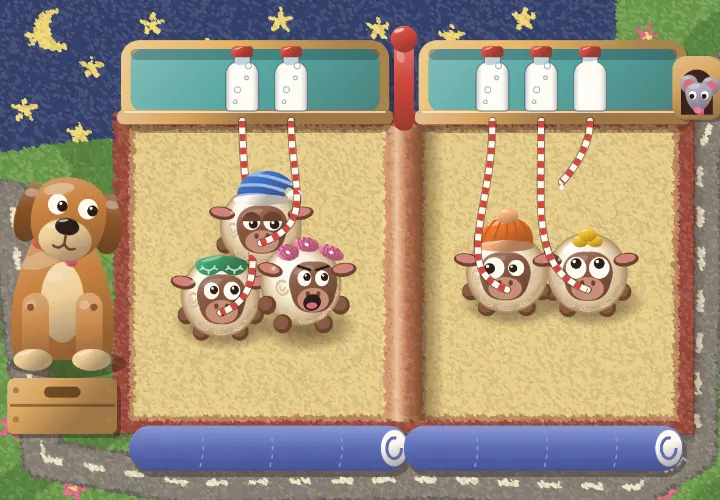
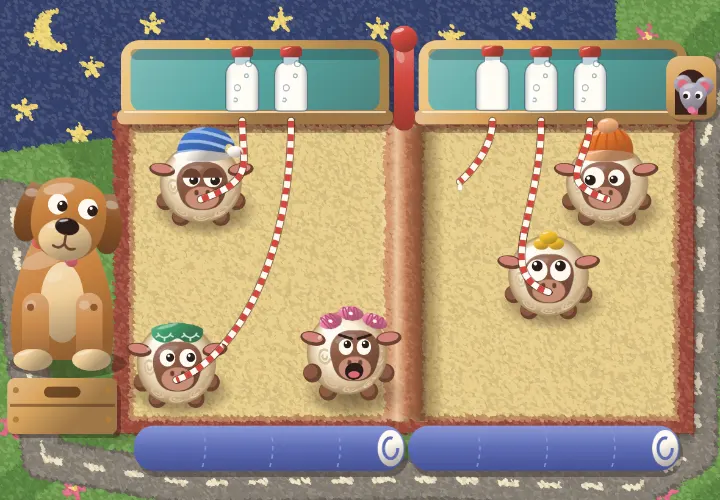
Five in the Bed: second playtest and sheet check fixes, cover retaken
Claude-Session: https://claude.ai/code/session_01KFxejekss9RwVXqiydsuut

diff --git a/games/five-in-the-bed/view.ts b/games/five-in-the-bed/view.ts
@@ -42,6 +42,8 @@ function dangle(b: { x: number; y: number }, towards: number, time: number, i: n
   return { x: b.x + Math.sin(time * 2 + i) * 8 + Math.sign(towards) * 46, y: b.y + 104 }
 }
 
+const CRATED = [[3, -25, -14], [4, 25, -14], [0, -50, 16], [1, 0, 16], [2, 50, 16]] as const
+
 export class View {
   readonly stamps = new Stamps()
   private rug: { canvas: CanvasImageSource; x: number; y: number; w: number; h: number } | null = null
@@ -222,7 +224,10 @@ export class View {
     // It leans toward whoever could have it.
     const want = b.owner ?? askers(g).find((i) => sideOf(g.bed.sheep[i].x) !== b.side)
     const to = want === undefined ? 0 : g.bed.sheep[want].x - foot.x
-    return dangle({ x: foot.x, y: SHELF.y + 12 }, Math.abs(to) > 60 ? to : 0, this.time, s.bottle)
+    const end = dangle({ x: foot.x, y: SHELF.y + 12 }, Math.abs(to) > 60 ? to : 0, this.time, s.bottle)
+    // It stays over its own half, clear of a quilt over the other.
+    const h = HALF[b.side]
+    return { x: Math.max(h.left + 44, Math.min(h.right - 44, end.x)), y: end.y }
   }
 
   private lookAt(g: Game, i: number, finger: Point | null, asking: number[], act: ReturnType<typeof actNow>): Point {
@@ -457,7 +462,7 @@ export class View {
       const to = { x: from.x + (end.x - from.x) * k, y: from.y + (end.y - from.y) * k }
       const own = milk[s.bottle].owner
       // It comes down straight and in to the mouth from the side, past the eyes.
-      const side = s.who !== null && Math.abs(end.x - HALF[milk[s.bottle].side].mid) > 40 ? Math.sign(end.x - HALF[milk[s.bottle].side].mid) : from.x >= end.x ? 1 : -1, reach = s.who === null || hidden(g, s.who) ? 0 : 92 * k
+      const side = from.x >= end.x ? 1 : -1, reach = s.who === null || hidden(g, s.who) ? 0 : 92 * k
       const path = () => { ctx.beginPath(); ctx.moveTo(from.x, from.y); ctx.bezierCurveTo(from.x, from.y + (to.y - from.y) * 0.55, to.x + side * reach, to.y - reach * 0.35, to.x, to.y) }
       ctx.save()
       if (over && mine) { ctx.beginPath(); ctx.arc(mine.x, mine.y - 10, R + 12, 0, Math.PI * 2); ctx.clip() }
@@ -481,7 +486,7 @@ export class View {
       const k = this.cover[side], x = HALF[side].left + 6
       const nudge = ring(this.since(`roll${side}`)) * 8
       // What is left of the roll when the quilt is up is thin.
-      const roll = () => { const sy = 1 - 0.6 * k; st.stampAt(ctx, ROLL, x - 2, QUILT.roll + nudge + (1 - sy) * QUILT.rollH, 0, 1, sy) }
+      const roll = () => { const sy = 1 - 0.6 * k; st.stampAt(ctx, ROLL, x + 5, QUILT.roll + nudge + (1 - sy) * QUILT.rollH, 0, 0.97, sy) }
       if (k < 0.02) { roll(); continue }
       const top = hemAt(k)
       ctx.save()
@@ -495,7 +500,7 @@ export class View {
         const speed = Math.hypot(s.vx, s.vy), p = this.poseOf(g, i)
         const moving = s.leap ? 1 : Math.min(1, speed / 140), poked = v.poked < 0.9 ? (1 - v.poked / 0.9) * (0.7 + 0.3 * Math.sin(v.poked * 30)) : 0
         const acting = actNow(g)?.cast.includes(i) ? Math.min(1, p.lift / 40 + Math.abs(p.spin % 6.28) * 0.12 + Math.abs(p.wide - 1) * 3 + 0.25) : 0
-        const wants = askers(g).includes(i) ? Math.min(1, 0.25 + p.lift / 40) : 0
+        const wants = askers(g).includes(i) ? Math.min(1, 0.55 + p.lift / 60) : 0
         const a = Math.max(moving, poked, acting, wants, g.bed.held?.who === i ? 1 : 0)
         if (a < 0.03) continue
         ctx.globalAlpha = Math.min(1, a)
@@ -537,7 +542,8 @@ export class View {
       this.head(ctx, DOG.x + this.dogTurn * 10 + nose, DOG.y - 62 + Math.sin(this.time * 1.6) * 2, this.dogTurn * 0.16, 1, g)
     }
     const full = milkOut(g) === null && this.home > 0.9
-    if (full) for (let i = 0; i < 3; i++) bottle(ctx, st, CRATE.x - 50 + i * 50, CRATE.y + 16 + ring(this.since('crate') - i * 0.06, 24, 6) * 8 - Math.max(0, Math.sin(this.time * 2.2 - i * 0.7)) * 12, 1, null, 0, 0, this.time)
+    // Five, as many as come out of it: two behind three.
+    if (full) for (const [i, x, y] of CRATED) bottle(ctx, st, CRATE.x + x, CRATE.y + y + ring(this.since('crate') - i * 0.06, 24, 6) * 8 - Math.max(0, Math.sin(this.time * 2.2 - i * 0.7)) * 12, 1, null, 0, 0, this.time)
     st.stampAt(ctx, CRATE_BOX, CRATE.x, CRATE.y, ring(this.since('crate'), 26, 7) * 0.05)
   }
 

diff --git a/games/five-in-the-bed/milk.ts b/games/five-in-the-bed/milk.ts
@@ -1,4 +1,5 @@
 import { FIVE, SIDES, sideOf, type Bed, type Side } from './bed'
+import { bottleAt } from './layout'
 import { below, type Rng } from './rng'
 
 // Milk: five bottles parted over two shelves, and the straws that join them to
@@ -24,7 +25,7 @@ export type Straw = { bottle: number; who: number | null }
 
 /**
  * Straws go down within a half, the colour's own first. One that has a sheep keeps it for as long as that sheep stays;
- * the rest go in order from the side of the bed, so that they never cross for nothing and one with nobody hangs by the ridge. One in the air has no straw.
+ * of the rest the highest sheep takes the nearest, so that they seldom cross and one with nobody hangs clear of it. One in the air has no straw.
  */
 export function straws(bed: Bed, milk: Milk, before: readonly Straw[] | null = null): Straw[] {
   const out: Straw[] = milk.map((_, bottle) => ({ bottle, who: null }))
@@ -33,14 +34,18 @@ export function straws(bed: Bed, milk: Milk, before: readonly Straw[] | null = n
     const here = bed.sheep.map((_, i) => i).filter((i) => !bed.sheep[i].leap && sideOf(bed.sheep[i].x) === side)
     milk.forEach((b, i) => { if (b.side === side && b.owner !== null && here.includes(b.owner)) out[i].who = b.owner })
     // One with a bottle of its own somewhere else waits for that.
-    let plain = here.filter((i) => !milk.some((b) => b.owner === i)).sort((a, b) => (bed.sheep[a].x - bed.sheep[b].x) * inward)
-    let free = milk.map((_, i) => i).filter((i) => milk[i].side === side && milk[i].owner === null).sort((a, b) => (milk[a].slot - milk[b].slot) * inward)
+    let plain = here.filter((i) => !milk.some((b) => b.owner === i)).sort((a, b) => bed.sheep[a].y - bed.sheep[b].y || (bed.sheep[a].x - bed.sheep[b].x) * inward)
+    let free = milk.map((_, i) => i).filter((i) => milk[i].side === side && milk[i].owner === null)
     for (const i of free) {
       const kept = before?.[i]?.who
       if (kept !== null && kept !== undefined && plain.includes(kept)) { out[i].who = kept; plain = plain.filter((x) => x !== kept) }
     }
     free = free.filter((i) => out[i].who === null)
-    free.forEach((bottle, i) => { if (i < plain.length) out[bottle].who = plain[i] })
+    for (const who of plain) {
+      const x = (i: number) => Math.abs(bottleAt(side, milk[i].slot, onShelf(milk, side)).x - bed.sheep[who].x)
+      const nearest = free.sort((a, b) => x(a) - x(b) || (milk[a].slot - milk[b].slot) * inward).shift()
+      if (nearest !== undefined) out[nearest].who = who
+    }
   }
   return out
 }
@@ -54,8 +59,8 @@ export function movesTo(bed: Bed, milk: Milk): number {
   const wrong = named.filter((b) => sideOf(bed.sheep[b.owner!].x) !== b.side).length
   if (!named.length) return Math.abs(bed.sheep.filter((s) => sideOf(s.x) === 'left').length - onShelf(milk, 'left'))
   const side = named[0].side
-  const extra = bed.sheep.filter((s, i) => sideOf(s.x) === side && !named.some((b) => b.owner === i)).length
-  return wrong + extra
+  const others = bed.sheep.filter((s, i) => sideOf(s.x) === side && !named.some((b) => b.owner === i)).length
+  return wrong + Math.abs(others - (onShelf(milk, side) - named.length))
 }
 
 /** The most sheep one deal asks over. */

diff --git a/games/five-in-the-bed/rules.test.ts b/games/five-in-the-bed/rules.test.ts
@@ -193,3 +193,16 @@ describe('the save', () => {
     expect(deserialize(serialize(saved({ position: 'whose-milk' })), 3, 1).position).toBe('whose-milk')
   })
 })
+
+describe('how many have to move', () => {
+  it('is the fewest over all partings that fit, for every deal at every position', () => {
+    const sidesOf = (m: number): Side[] => Array.from({ length: FIVE }, (_, i) => ((m >> i) & 1 ? 'left' : 'right'))
+    const apart = (a: number, b: number) => [0, 1, 2, 3, 4].filter((i) => ((a ^ b) >> i) & 1).length
+    for (const position of LADDER) for (let m = 0; m < 32; m++) for (let seed = 1; seed < 9; seed++) {
+      const { milk } = dealMilk(makeBed(sidesOf(m)), position, makeRng(seed))
+      const fewest = Math.min(...Array.from({ length: 32 }, (_, to) => to).filter((to) => fits(straws(makeBed(sidesOf(to)), milk))).map((to) => apart(m, to)))
+      expect(movesTo(makeBed(sidesOf(m)), milk)).toBe(fewest)
+      expect(fewest).toBeGreaterThan(0)
+    }
+  })
+})

diff --git a/games/five-in-the-bed/bed.ts b/games/five-in-the-bed/bed.ts
@@ -25,7 +25,7 @@ export const HAND = 34
 
 const MID: Record<Side, number> = { left: (BED.left + BED.crest) / 2, right: (BED.right + BED.crest) / 2 }
 /** Each has a place of its own, the same in both halves and clear of the rest, as the pips of a five lie. Nobody has to move for another. */
-const PLACE: readonly Point[] = [{ x: -100, y: 300 }, { x: 152, y: 596 }, { x: 4, y: 452 }, { x: -152, y: 596 }, { x: 100, y: 300 }]
+const PLACE: readonly Point[] = [{ x: -100, y: 300 }, { x: 140, y: 596 }, { x: 4, y: 452 }, { x: -140, y: 596 }, { x: 100, y: 300 }]
 export const placeOf = (who: number, side: Side): Point => ({ x: MID[side] + PLACE[who].x - (side === 'left' ? 8 : -8), y: PLACE[who].y })
 
 export type Sheep = {

diff --git a/games/five-in-the-bed/game.ts b/games/five-in-the-bed/game.ts
@@ -123,7 +123,9 @@ export function deal(g: Game): boolean {
   const d = dealMilk(bed, g.save.position, g.rng)
   const worn = d.milk.some((b) => b.owner !== null) && !g.save.shown.includes('worn')
   g.save = { ...beginCycle(g.save), milk: d.milk, misfits: 0, needed: movesTo(bed, d.milk) }
+  // A deal that asks for no quilt takes off the one that was left on, so that whoever asks is seen.
   if (d.quilt) pull(g, d.quilt, true)
+  else if (g.save.quilt) pull(g, g.save.quilt, false)
   g.last = keyOf(bed)
   g.straws = null
   g.scene = { kind: 'deal', t: 0, out: 0, worn }

diff --git a/games/five-in-the-bed/ART.md b/games/five-in-the-bed/ART.md
@@ -15,13 +15,13 @@ Five fat toy sheep lie in a bed with a ridge down its middle. A finger that land
 
 | | Tap | Shove or drag | A sheep rolls into it | Quilt over it | Milk is out |
 | --- | --- | --- | --- | --- | --- |
-| Sheep | squash, its own bleat, and over the ridge it tumbles | rolls with the finger, a rumble that rises with speed | a bop pitched by the knock, and a squeak from the one hit | a muffled bleat, and a bulge where it squirms | a straw goes to it as it lies, or its mouth opens |
-| Ridge | a twang, and it wobbles | a lower twang drawn along with the finger | the sheep hops the crest with a boing | a flump over the ridge's edge | the twang as ever; the straws hang clear of it |
-| Bare mattress | springs creak and the nearest sheep bounce | an unseen hand: sheep roll ahead of it, a brush of pile | the sheep rolls back to its place | a soft flump | a drop of milk plips if a straw has nobody |
+| Sheep | squash, its own bleat, and over the ridge it tumbles | rolls with the finger, a rumble that rises with speed | a bop pitched by the knock, and a squeak from the one hit | a muffled bleat, and a bulge where it squirms | a straw goes to it with a rising peep, or its mouth opens with four small peeps |
+| Ridge | a twang, and it wobbles | a lower twang drawn along with the finger | the sheep hops the crest with a boing | a flump over the ridge's edge | a sheep that hops it lets its straw go, and takes a spare one where it lands with a peep |
+| Bare mattress | springs creak and the nearest sheep bounce | an unseen hand: sheep roll ahead of it, a brush of pile | one that leaps lands with a thud and a puff; one that was shoved rolls back to its place | a soft flump | a drop of milk plips if a straw has nobody |
 | Quilt | the roll: up it comes with a whump. Anywhere on it: off it flies with a whoosh, after the nearest lump has squirmed under the finger | the hem follows the finger with a rustle; the middle shoves who is under it | goes in under the side with a swish, and the side of the quilt lifts | the other half's quilt slides back first, a double flump | straws go in under the hem with a pop |
-| Bottles and the dangling straw | a clink of that bottle's pitch and a wobble, a tick of the straw; whoever asks for it jumps and bleats | slides a little and springs back with a squeak of the shelf | rock on the shelf with a rattle when a sheep hits the headboard | a muffled clink | drain with a gurgle and burp empty |
-| Dog | ears up, a yip, and he deals the milk if it is owed | his head turns after the finger with a wooden creak | a hard knock on the bed's side makes him bark back | looks at it | his tongue hangs out |
-| Mouse | dives in her hole with a pop and looks out again | scampers after the finger and back, a patter | jumps when the headboard is hit, a tiny squeak | holds her breath, then a sneeze | her tongue is out toward the bottles |
+| Bottles and the dangling straw | a clink of that bottle's pitch and a wobble, or a tick of the straw; the one that asks jumps and bleats | slides a little and springs back with a squeak of the shelf | rock on the shelf with a rattle when a sheep hits the headboard | a muffled clink | drain with a gurgle and burp empty |
+| Dog | ears up, a yip, and he deals the milk if it is owed | his head turns after the finger with a wooden creak | a hard knock on the bed's side makes him bark back | his nose goes out and back at the whump | ears up at every clink as it comes out, and his tongue hangs out |
+| Mouse | dives in her hole with a pop and looks out again | scampers after the finger and back, a patter | jumps when the headboard is hit, a tiny squeak | holds her breath, then a sneeze | her tongue is out toward the bottles; touched, she takes it in with a pop and puts it out again |
 
 **Day 15:** a child can call any of sixteen acts on purpose, because each way of parting the five always puts on the same one: five solos, ten duets, and what happens when all five are on one side. They can do it with one half under the quilt. They can put the two who quarrel together and then give them milk.
 
@@ -44,7 +44,7 @@ The quilt is no quiz. Nobody asks what is under it, nothing waits for an answer,
 
 ## The error as a consequence
 
-A straw comes down from each bottle to a sheep in the half under its shelf, and follows who lies where at once: a sheep that comes over gets its straw as it lands. A parting that does not fit leaves a straw that dangles and drips on one side, next to the ridge, and on the other a sheep with an open mouth. One sheep at a time asks: it looks across at that straw, hops toward it and falls back, while the straw leans toward that sheep and its full bottle bobs. Any others without a straw only hold their mouths open. A tap on the bottle or on the dangling straw makes the one that asks jump and bleat. Nobody drinks. Under the quilt the one that asks hops as a lump. At `whose-milk` one bottle wears a sheep's own thing, its nightcap or its bobble hat, and its straw goes to nobody else: with the wrong sheep there it dangles and leans across the ridge toward its owner, who asks for it. Everything stays as it is, and each sheep over the ridge changes it.
+A straw comes down from each bottle to a sheep in the half under its shelf, and follows who lies where at once: a sheep that comes over gets its straw as it lands. A parting that does not fit leaves a straw that dangles and drips on one side, and on the other a sheep with an open mouth. One sheep at a time asks: it looks across at that straw, hops toward it and falls back, while the straw leans toward that sheep and its full bottle bobs. Any others without a straw hold their mouths open and hop only a little. A tap on any bottle or on the dangling straw makes the one that asks jump and bleat. Nobody drinks. Under the quilt the one that asks hops as a lump. At `whose-milk` one bottle wears a sheep's own thing, such as its nightcap or its curlers, and its straw goes to nobody else: with the wrong sheep there it dangles and leans across the ridge toward its owner, who asks for it. Everything stays as it is, and each sheep over the ridge changes it.
 
 ## The designed order, and what is stored
 
@@ -53,9 +53,9 @@ One new thing at a time:
 1. `next-door`: the bottles are one sheep away from how the sheep lie.
 2. `further`: the bottles part in any other way at most three sheep away, none on one shelf included.
 3. `whose-milk`: never with an empty shelf; one bottle wears the thing of a sheep that lies in the other half and has to come over, so it matters who lies there.
-4. `under-the-quilt`: as `further`, and the dog draws the quilt over one half as he deals. It comes off with a tap anywhere.
+4. `under-the-quilt`: as `further`, and the dog draws the quilt over one half as he deals. It comes off with a tap anywhere on it.
 
-A cycle runs from a deal to the drinking. Counted while it runs: the settled partings that did not fit. Well: at most one more than the sheep that had to move. Badly: six or more beyond that. Otherwise mixed. Nothing shows the count or the position. The harder option is the quilt: at every position the child may lay it over one half while the milk is out, which looks harder since that half is hidden, and may take it off again. A bottle wearing a hat is seen before anything is tried, and any child may push sheep about without dealing milk at all.
+A cycle runs from a deal to the drinking. Counted while it runs: the settled partings that did not fit. Well: at most one more than the sheep that had to move. Badly: six or more beyond that. Otherwise mixed. Nothing shows the count or the position. The harder option is the quilt: at every position the child may lay it over one half while the milk is out, which looks harder since that half is hidden, and may take it off again. A bottle wearing somebody's thing is seen before anything is tried, and any child may push sheep about without dealing milk at all.
 
 Saved: version; position and finished; the five sheep's places, at rest; which half the quilt is over, or none; the bottles of the current deal (each shelf's number, and which wears whose thing), or none; the misfits so far; the number that had to move; shown (which of the two showings have started); and the random stream's state. Sheep on the move are saved where they would come to rest; one under a finger goes back to where it came from first. A save in which the rest would fit the milk is saved as drunk, so nothing plays on load. The act that is playing, the dog in the bed and the bulges are views and are not saved.
 
@@ -77,11 +77,11 @@ The **dog** wants a place in the bed: he watches the half with the most room. Wh
 
 ## The scenes
 
-- **Deal.** Cause: a touch on the dog or his crate when no milk is out, sheep on the move or an act playing or not. Five bottles hop one by one to the two shelves with a clink each, a rest between the two groups; on `under-the-quilt` the quilt comes up. Four seconds. The bottles and the number that had to move are worked out from where each sheep would come to rest, and the bottles never fit that parting. Saved at its start: the sheep's places, bottles, misfits, the number that had to move, quilt, stream.
+- **Deal.** Cause: a touch on the dog or his crate when no milk is out, sheep on the move or an act playing or not. Five bottles hop one by one to the two shelves with a clink each, a rest between the two groups; on `under-the-quilt` the quilt comes up, and at the others one left on slides off. Four seconds. The bottles and the number that had to move are worked out from where each sheep would come to rest, and the bottles never fit that parting. Saved at its start: the sheep's places, bottles, misfits, the number that had to move, quilt, stream.
 - **Milk.** Cause: the settled parting fits. Milk runs up the straws, bottles drain, then a burp from each, one group after the other with a rest between; the smaller part's act plays, the empty bottles hop back into the crate, and all shut their eyes. Seven to ten seconds. Saved at its start: no bottles, finished, the position moved. Filled in from who lies where.
-- **Act.** Cause: with no milk out, a new parting settles. The smaller part's act, three to four seconds; the larger part watches and bleats once each at the end. Under the quilt it is only bulges and muffled sound, and whoever is uncovered in the middle of an act freezes with wide eyes. It saves nothing.
+- **Act.** Cause: with no milk out, a new parting settles. The smaller part's act, then the larger part, which has watched, bleats once each: about five seconds in all. With all five on one side there are no bleats, and the dog's getting in ends it. Under the quilt it is only bulges and muffled sound, and whoever is uncovered in the middle of an act freezes with wide eyes. It saves nothing.
 
-- **Showing.** Cause: the first opening of the game, and the first deal at `whose-milk`, once each. At the opening, with one sheep's open mouth already in sight, a sheep from the other half, the one with the dangling straw, stretches in its sleep, tumbles over the ridge into the half of the open mouth with a boing and tumbles back, so the spare straw never gets a sheep and nothing is solved. At `whose-milk`, as the end of the deal, the sheep whose thing the bottle wears jumps, and the two bob together with a clink. Saved when the showing itself starts: its mark in shown. Put away before that, it is still owed: the opening one until a child moves a sheep over, by which it is no longer needed, and the other until the next deal with such a bottle. Neither plays again once marked.
+- **Showing.** Cause: the first opening of the game, and the first deal at `whose-milk`, once each. At the opening, with one sheep's open mouth already in sight, a sheep from the other half, the one with the dangling straw, tumbles over the ridge into the half of the open mouth with a boing and tumbles back, so the spare straw never gets a sheep and nothing is solved. At `whose-milk`, as the end of the deal, the sheep whose thing the bottle wears jumps, and the two bob together with a clink. Saved when the showing itself starts: its mark in shown. Put away before that, it is still owed: the opening one until a child moves a sheep over, by which it is no longer needed, and the other until the next deal with such a bottle. Neither plays again once marked.
 
 Any touch ends a scene at once and is then an ordinary touch. After the milk the sheep and the quilt stay as they are. The shut eyes are short-lived: they open at the next touch and are open on load. The dog sits by his full crate, and nothing comes until the child touches him or it. On load no scene replays.
 
@@ -130,7 +130,7 @@ Every tuft is one short dab of one dyed colour, so each printed edge is fuzzy by
 
 Moulded and turned: one clean edge, a round shade, a small sharp light. The five are cream balls of one size with a brown face plate, pegs for feet and ears. Each is turned as a ball is turned (`sheep.ts`), so that one which rolls shows its curls, its back and its face again, and rights itself at rest; the light on it never turns. What tells them apart is on the head: a blue nightcap, pink curlers, a yellow dummy and tuft, a green mask, an orange bobble hat. A bottle that is somebody's wears the same thing on its top, over a spotted band of that colour.
 
-Bottles stand in two painted wooden shelves. Straws are barley-sugar red and white, or in a sheep's own colour. A straw lies behind every sheep but its own, the dangling one in front of all, and comes to the mouth from the side, past the eyes. The dog is jointed wood with a red collar, large, at the left, behind his crate. The quilt is flat blue felt with stars and a white hem: opaque, and it shows a lump only where somebody moves.
+Bottles stand in two painted wooden shelves. Straws are barley-sugar red and white, or in a sheep's own colour. A straw lies behind every sheep but its own, the dangling one in front of all, and comes to the mouth from the side of its bottle. The dog is jointed wood with a red collar, large, at the left, behind his crate. The quilt is flat blue felt with stars and a white hem: opaque, and it shows a lump only where somebody moves.
 
 ## Palette
 

diff --git a/games/five-in-the-bed/REFINEMENT.md b/games/five-in-the-bed/REFINEMENT.md
@@ -4,14 +4,14 @@
 ## Status
 
 - Stage: gates. Built, refined in the passes below, and in review in its pull request.
-- Sheet: check round 1 (a reader who did not write it) returned 16 findings, pasted word for word. Round 2 reads the changes made since.
+- Sheet: check round 1 (a reader who did not write it) returned 16 findings, pasted word for word. Round 2, the same reader, returned three, pasted. Round 3, a reader new to it, returned nine on the changed lines, pasted, and one fault in the count of moves, fixed and tested over every deal. Nothing has been read since for the paste itself.
 - Look in use: the first row set aside, tufted play rug. The second, backlit peg dots, was not tried.
 - Open: the owner has not seen the toy or the game; nobody has listened to the sounds; no physical iPad and no WebKit was measured.
 
 ### Template notes
 
 - `state.ts`: used as copied, wrapped by `save.ts`.
-- `scene.ts`: copied and not used. Scenes are steps of the rules in `game.ts`, since what they show depends on the physics.
+- `scene.ts`: removed, not used. Scenes are steps of the rules in `game.ts`, since what they show depends on the physics.
 - `config.ts`: `TAP_PRESSES` is 1, since a second tap takes the sheep back.
 - The Mount: the template's, with the gestures behind `Play` so that tests use the same path.
 - `symbols.ts` went, as the band starts below 6. Frozen files and the rest: used as copied.
@@ -29,6 +29,9 @@
 | 2 | misfit, drinking, acts | Straws lie across the faces of others and over eyes; the mask is gone when its sheep sleeps | straws behind all but their own and in from the side; the mask over the eyes | not measured | why to move anybody |
 | 3 | the loop, as a child of 4: what do I do, what happened, what now | Straws went up each time anything moved, so nothing seemed to follow from a tap; the one without milk only looked; with no milk out nothing called | straws follow at once and a sheep gets its straw as it lands; the one without hops toward the spare straw, which leans to it, and its bottle bobs; the crate's bottles rattle and the dog looks at them; a touch on the crate deals at any time | not measured | |
 | 4 | quilt, dog in the bed, worn bottles, a change of tier | Straws over the covered half are hidden; a change of tier repaints the rug and stops the game for two seconds | those straws hang over the quilt or go in at the hem; painted once for a size | 58 fps in software Chrome | |
+| 5 | a cold playtest as a child of 4, a code review | Sheep piled in a hollow and hid each other's mouths; several hopped at once, so nobody knew which to tap; a coloured teat said nothing; the quilt needed its hem; two touches of different kinds could leave a scene running | each sheep has its own place, the same in both halves; one asks at a time; a bottle wears the sheep's own hat; a tap anywhere takes the quilt off; the bottle and the dangling straw answer; eighteen review findings | not measured | |
+| 6 | misfit, hat, quilt, drinking, after | The dangling straw was hidden behind a hat; the quilt was cut off at the foot | it hangs in front and next to the ridge; a thin roll stays at the foot | see below | nobody has listened |
+| 7 | a second cold playtest (nothing blocking) | Lumps nearly invisible; a quilt left on carried into a deal; straws crossed faces; five bottles came from a crate that showed three | the lump that asks is seen all along; a deal takes the quilt off; the highest sheep takes the nearest straw and it enters from its own side; five in the crate | in the section below | taps on the sky answer only a little |
 
 ## For the pull request
 
@@ -36,16 +39,30 @@ Written as the game is built and kept at the end of this file: the pull request 
 
 ### How the game meets the quality bar
 
-Nothing yet. One entry for each line of the quality bar, saying how the game meets it so far. Each frame rate comes with the engine, the throttle, the pixel ratio and the build it was measured on, and with whether a physical iPad was measured.
+- **Alive at idle:** each sheep breathes, blinks and looks about in its own way; the dog and the mouse too. All stop when unattended or hidden.
+- **Motion and sound on every touch:** every thing in the frame answers when the finger lands, the rug included. All sound is synthesised.
+- **Weight, squash, follow-through:** balls with mass, a ridge with a slope, squash springs, a tumbling leap that lands and bumps.
+- **Kid-clear:** five cream balls on one plain butter field; targets of about 100 units, apart.
+- **Wordless clarity:** nothing to read. One sheep at a time asks, and the spare straw leans to it. Looked at cold twice by a reader who had not seen it, not by a child.
+- **Wordless guidance:** the hint glows on the one that asks and taps it; off at any touch.
+- **60 fps:** 58 fps in software-rendered Chrome, a production build, tier auto, at most 69 stamps a frame, the game's own work 0.9 ms at the 95th percentile. WebKit and a physical iPad were not measured.
+- **Procedural assets only:** painted once for a size of the surface.
+- **Its own art direction:** a tufted play rug with hard toys on it.
+- **Nothing through anything:** model tests; canvas 2D, so the 3D audit does not apply.
 
 ### The learning claim
 
-Nothing yet. The claim as the sheet has it, with each record's standing and its check state read again on the day of the pull request, in the pack's Summary or the game's own words only. A game with no learning goal says so.
+As the sheet has it: designed from us-ca preschool-tk mathematics 2.2 (department-published-foundation, confirmed) and from nl fase-1 rw/bew/1/01/fase1 in part and rw/gb/2/09/fase1 (curriculum-institute-guidance, both confirmed). It claims nothing about what a child has learned.
 
 ### Defaults taken for the owner
 
-Nothing yet. Each default the game took in the owner's place, from the guide or from its own sheet.
+- The look, the toy, the name, five sheep and no other number.
+- An opening showing, once: one sheep over the ridge and back.
+- After the milk nothing comes until a touch on the dog or the crate.
+- The hat comes before the quilt in the order.
 
 ### What the next builder should know
 
-Nothing yet. What this build taught that the guide and the template do not say.
+- Balls that roll together hide each other's faces: give every character its own place when its face is what asks.
+- When several ask at once nobody knows whom to touch. One asks.
+- A change of tier must not repaint a big procedural ground.
